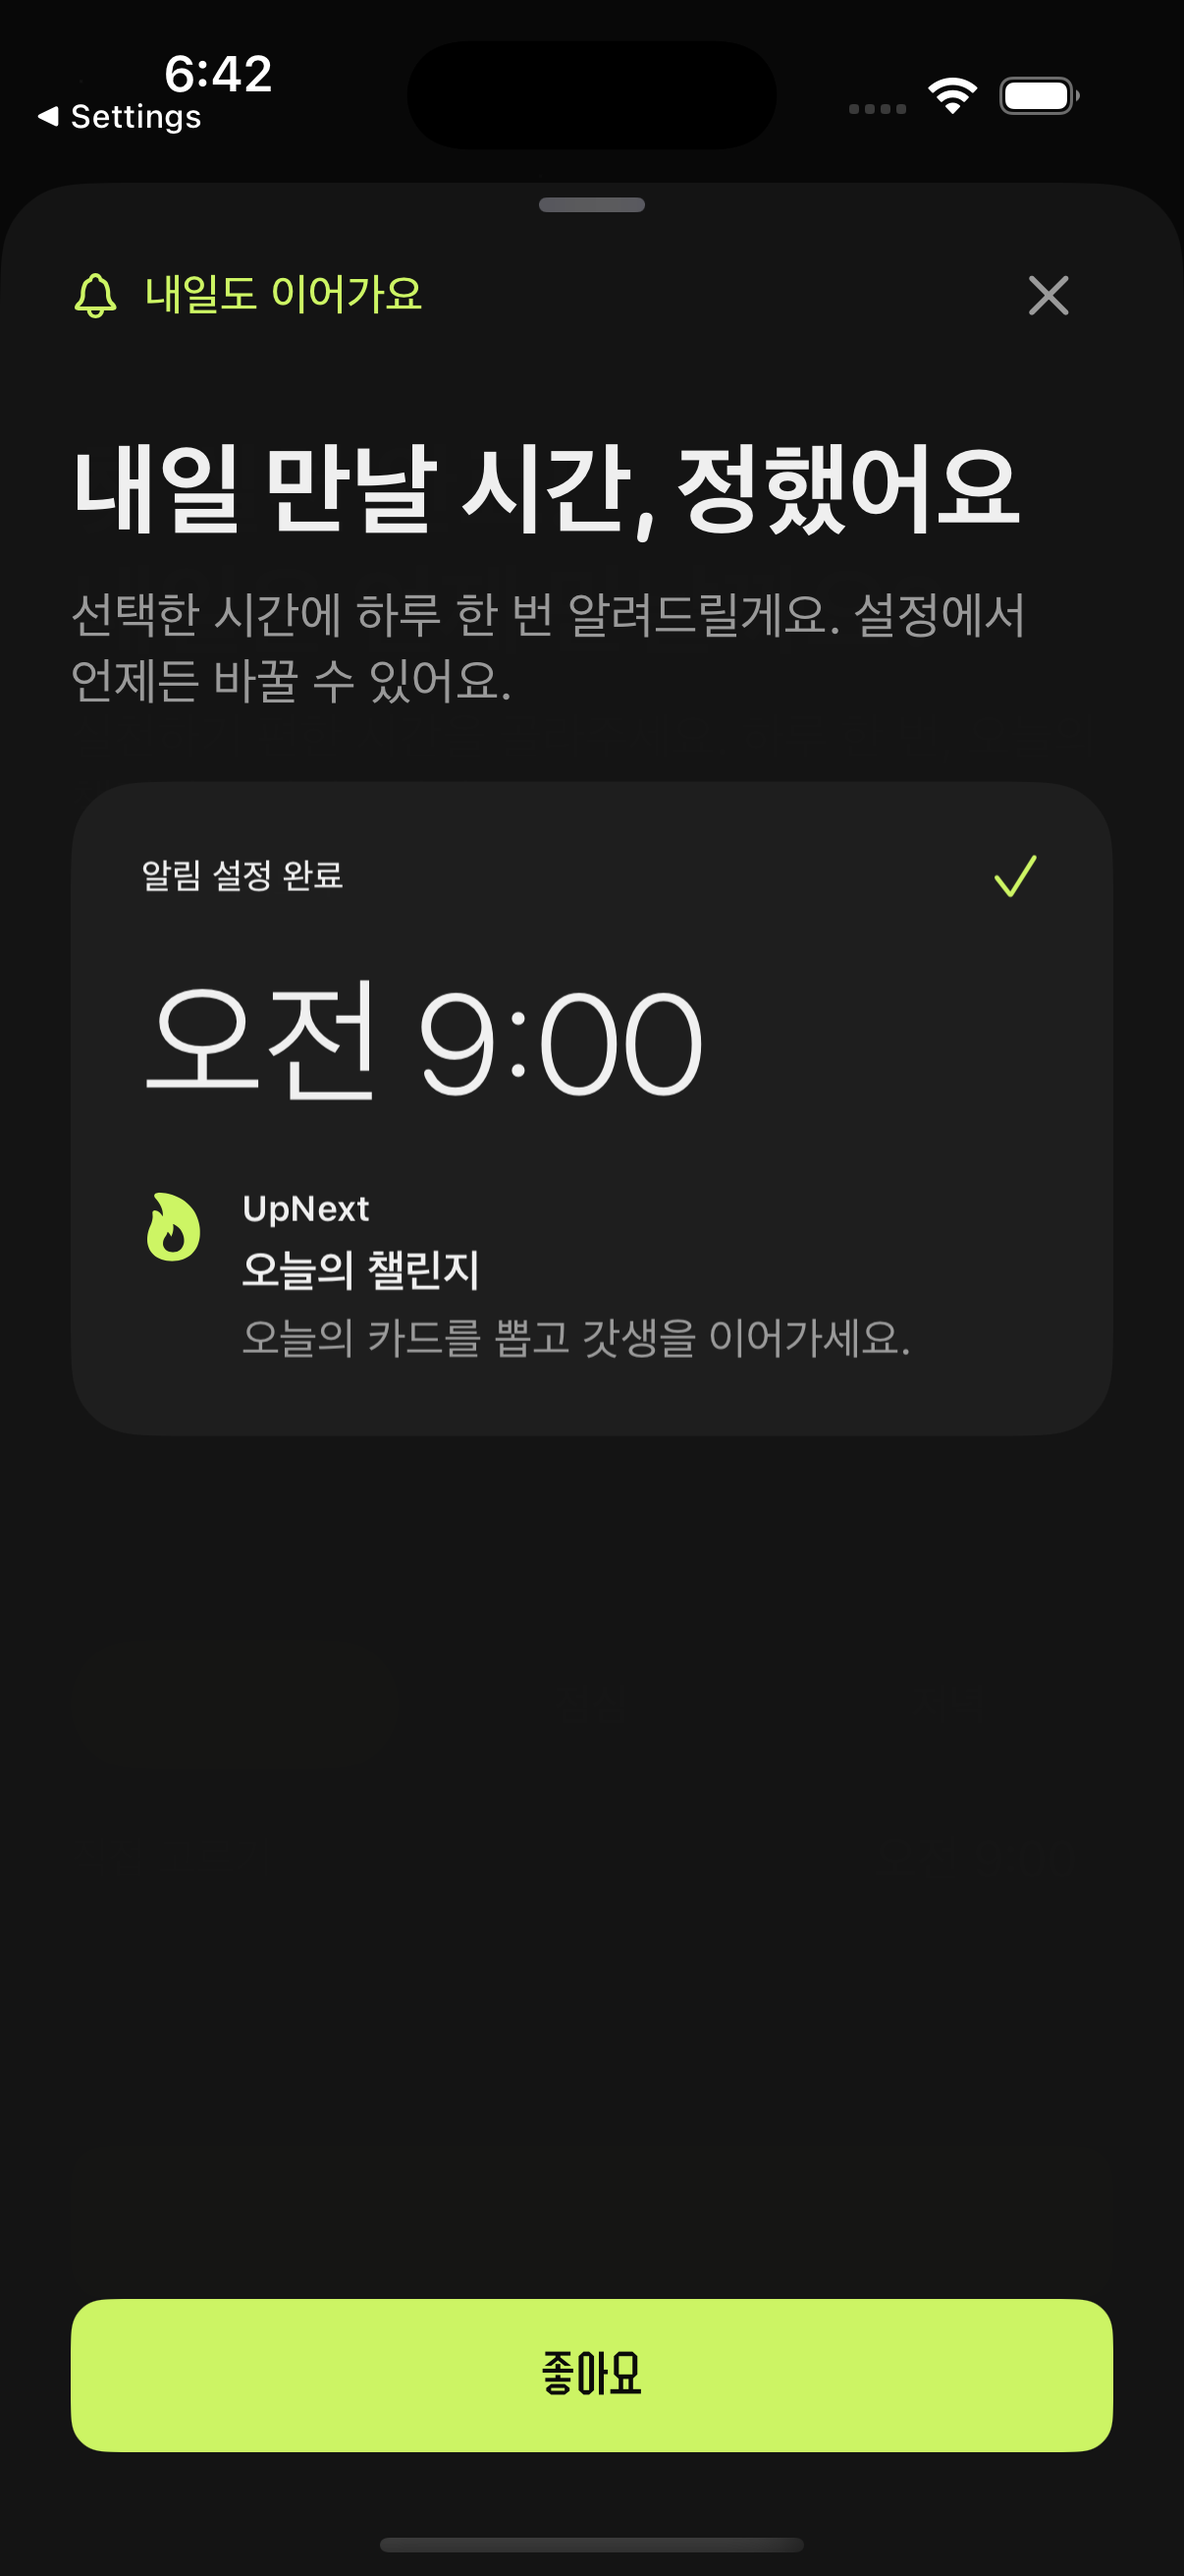
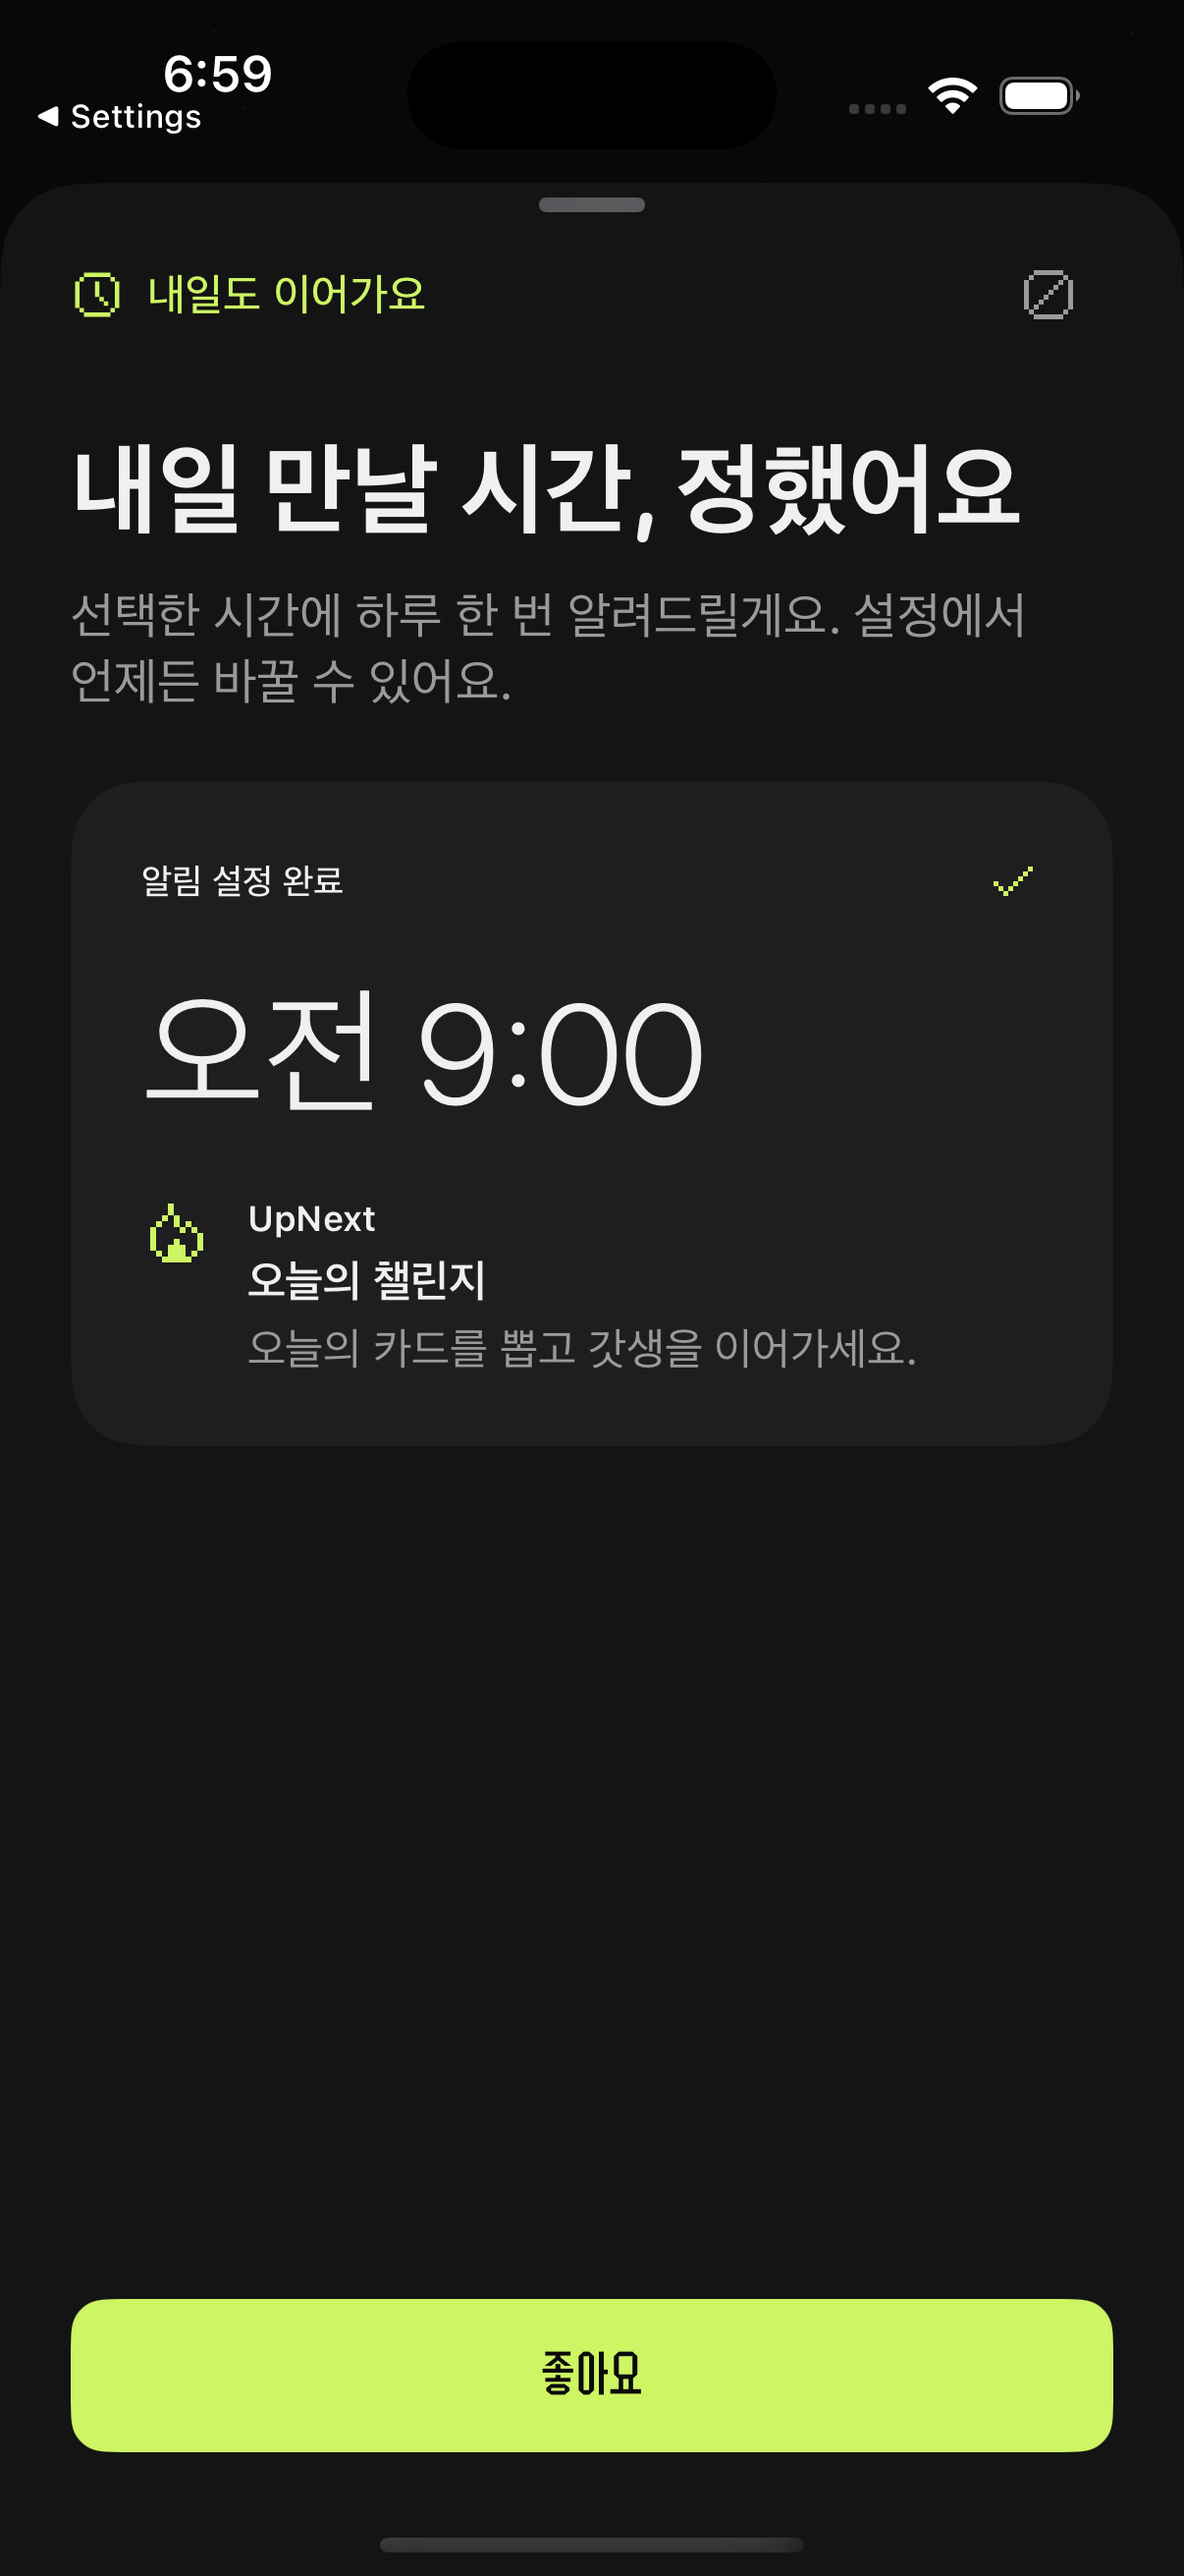
fix: align setup guides and audio validation with app design

diff --git a/upnext-ios/UpNext/UpNext/WidgetSetupPractice.swift b/upnext-ios/UpNext/UpNext/WidgetSetupPractice.swift
@@ -20,7 +20,7 @@ struct WidgetSetupPractice: View {
                 Text(copy("여기서 연습해보세요"))
                     .font(.caption.weight(.medium)).foregroundStyle(Color.textSecondary)
                 Spacer()
-                Image(systemName: "hand.draw").foregroundStyle(Color.accentPrimary)
+                PixelIcon(.hand, size: 20, color: .accentPrimary)
             }
             if step == 2 { gallery } else { home }
         }
@@ -53,7 +53,10 @@ struct WidgetSetupPractice: View {
             .overlay(alignment: .topLeading) {
                 if menuOpen {
                     Button(action: onAdvance) {
-                        Label(copy("위젯 추가"), systemImage: "plus")
+                        HStack(spacing: 8) {
+                            PixelIcon(.plus, size: 18)
+                            Text(copy("위젯 추가"))
+                        }
                             .font(.subheadline.weight(.semibold))
                             .padding(.horizontal, 18).frame(minHeight: 52)
                             .background(Color.bgHover, in: RoundedRectangle(cornerRadius: 12))
@@ -86,8 +89,7 @@ struct WidgetSetupPractice: View {
                             .stroke(Color.accentPrimary, style: StrokeStyle(lineWidth: 3, lineCap: .round))
                             .frame(width: 68, height: 68).rotationEffect(.degrees(-90))
                             .animation(holding ? .linear(duration: 0.65) : Anim.easeOut(0.15), value: holding)
-                        Image(systemName: "hand.point.up.left")
-                            .font(.title).foregroundStyle(Color.accentPrimary)
+                        PixelIcon(.hand, size: 30, color: .accentPrimary)
                             .scaleEffect(reduceMotion || !holding ? 1 : 0.94)
                     }
                     Text(copy("빈 곳을 길게 눌러보세요"))
@@ -104,8 +106,8 @@ struct WidgetSetupPractice: View {
                 .accessibilityIdentifier("widgetPracticeHold")
             } else {
                 VStack(spacing: 10) {
-                    Image(systemName: "arrow.up.left").font(.largeTitle)
-                        .foregroundStyle(Color.accentPrimary)
+                    PixelIcon(.arrowUp, size: 34, color: .accentPrimary)
+                        .rotationEffect(.degrees(-45))
                     Text(copy("편집 → 위젯 추가"))
                         .font(.subheadline).foregroundStyle(Color.textSecondary)
                 }
@@ -118,7 +120,7 @@ struct WidgetSetupPractice: View {
     private var gallery: some View {
         VStack(spacing: 18) {
             HStack {
-                Image(systemName: added ? "checkmark" : "magnifyingglass")
+                PixelIcon(added ? .check : .search, size: 18, color: added ? .accentPrimary : .textPrimary)
                 Text(added ? copy("연습 완료") : "UpNext")
                 Spacer()
             }
@@ -146,7 +148,10 @@ struct WidgetSetupPractice: View {
                     Haptics.play(.success)
                     withAnimation(motion) { added = true }
                 } label: {
-                    Label(copy("위젯 추가 연습"), systemImage: "plus")
+                    HStack(spacing: 8) {
+                        PixelIcon(.plus, size: 20, color: .bgPrimary)
+                        Text(copy("위젯 추가 연습"))
+                    }
                 }
                 .buttonStyle(.un(.primary))
                 .accessibilityIdentifier("widgetPracticePlace")
@@ -192,7 +197,7 @@ struct RetentionWidgetPreview: View {
             HStack {
                 Text("UpNext").font(.caption.weight(.bold))
                 Spacer(minLength: 8)
-                Image(systemName: "flame.fill").foregroundStyle(Color.accentPrimary)
+                PixelIcon(.flame, size: 18, color: .accentPrimary)
             }
             Text(taskTitle)
                 .font(.headline).fixedSize(horizontal: false, vertical: true)
@@ -203,7 +208,7 @@ struct RetentionWidgetPreview: View {
                 }
                 Text("\(completion.done)/\(completion.total)").font(.caption).monospacedDigit()
                 Spacer()
-                Image(systemName: "arrow.up.right").foregroundStyle(Color.accentPrimary)
+                PixelIcon(.arrowUp, size: 18, color: .accentPrimary).rotationEffect(.degrees(45))
             }
             .accessibilityHidden(true)
         }

diff --git a/upnext-ios/UpNext/UpNext/RetentionSetupView.swift b/upnext-ios/UpNext/UpNext/RetentionSetupView.swift
@@ -24,13 +24,15 @@ struct RetentionSetupView: View {
         ScrollView {
             VStack(alignment: .leading, spacing: 24) {
                 HStack {
-                    Label(copy(kind == .notifications ? "내일도 이어가요" : "눈에 보이면 더 쉬워요"),
-                          systemImage: kind == .notifications ? "bell" : "rectangle.grid.2x2")
+                    HStack(spacing: 8) {
+                        PixelIcon(kind == .notifications ? .clock : .grid3x3, size: 18, color: .accentPrimary)
+                        Text(copy(kind == .notifications ? "내일도 이어가요" : "눈에 보이면 더 쉬워요"))
+                    }
                         .font(.subheadline.weight(.medium))
                         .foregroundStyle(Color.accentPrimary)
                     Spacer()
                     Button { setup.dismiss() } label: {
-                        Image(systemName: "xmark").font(.body.weight(.medium))
+                        PixelIcon(.cancel, size: 20, color: .textSecondary)
                             .frame(width: 44, height: 44)
                     }
                     .foregroundStyle(Color.textSecondary)
@@ -146,8 +148,7 @@ struct RetentionSetupView: View {
                 Text(copy(succeeded ? "알림 설정 완료" : "알림 미리보기"))
                     .font(.caption.weight(.medium))
                 Spacer()
-                Image(systemName: succeeded ? "checkmark" : "bell.badge")
-                    .foregroundStyle(Color.accentPrimary)
+                PixelIcon(succeeded ? .check : .clock, size: 20, color: .accentPrimary)
             }
             Text(time, style: .time)
                 .font(.system(size: 48, weight: .light, design: .rounded))
@@ -155,8 +156,7 @@ struct RetentionSetupView: View {
                 .contentTransition(reduceMotion ? .opacity : .numericText())
                 .accessibilityIdentifier("reminderPreviewTime")
             HStack(alignment: .top, spacing: 12) {
-                Image(systemName: "flame.fill")
-                    .font(.title2).foregroundStyle(Color.accentPrimary)
+                PixelIcon(.flame, size: 24, color: .accentPrimary)
                 VStack(alignment: .leading, spacing: 5) {
                     Text("UpNext").font(.caption.weight(.semibold))
                     Text(AppConfig.loc("오늘의 챌린지")).font(.subheadline.weight(.semibold))
@@ -213,8 +213,12 @@ struct RetentionSetupView: View {
             RetentionWidgetPreview()
                 .padding(24)
                 .background(Color.accentPrimary.opacity(0.08), in: RoundedRectangle(cornerRadius: 24))
-            Label(copy("위젯 추가를 확인했어요"), systemImage: "checkmark.circle.fill")
+            HStack(spacing: 8) {
+                PixelIcon(.check, size: 20, color: .accentPrimary)
+                Text(copy("위젯 추가를 확인했어요"))
+            }
                 .foregroundStyle(Color.accentPrimary)
+                .accessibilityElement(children: .combine)
                 .accessibilityIdentifier("widgetInstalledConfirmation")
         } else if widgetStep < 3 {
             WidgetSetupPractice(step: widgetStep, onAdvance: advanceWidget)

diff --git a/upnext-ios/UpNext/UpNext/SettingsView.swift b/upnext-ios/UpNext/UpNext/SettingsView.swift
@@ -173,7 +173,7 @@ struct SettingsView: View {
                     HStack {
                         Text(RetentionSetupCopy.text("알림 설정 가이드"))
                         Spacer()
-                        Image(systemName: "chevron.right")
+                        PixelIcon(.chevronRight, size: 20, color: .textSecondary)
                     }.padding(16).frame(minHeight: 48)
                 }
                 .foregroundStyle(Color.textPrimary)
@@ -186,7 +186,7 @@ struct SettingsView: View {
                         HStack {
                             Text(RetentionSetupCopy.text("홈 화면 위젯 가이드"))
                             Spacer()
-                            Image(systemName: "chevron.right")
+                            PixelIcon(.chevronRight, size: 20, color: .textSecondary)
                         }.padding(16).frame(minHeight: 48)
                     }
                     .foregroundStyle(Color.textPrimary)

diff --git a/scripts/fidelity/audio-audit.py b/scripts/fidelity/audio-audit.py
@@ -1,0 +1,38 @@
+#!/usr/bin/env python3
+"""Verify the shipped audio catalog without requiring an audio device or ffmpeg."""
+import json
+import re
+import wave
+from pathlib import Path
+
+ROOT = Path(__file__).resolve().parents[2]
+WEB = ROOT / "public/audio"
+IOS = ROOT / "upnext-ios/UpNext/UpNext"
+manifest = json.loads((WEB / "manifest.json").read_text())
+assert manifest == json.loads((IOS / "Audio/manifest.json").read_text()), "Audio manifests differ"
+catalog = set(re.findall(r"^    case (\w+)$", (IOS / "SoundName.swift").read_text(), re.M))
+assert catalog == set(manifest["sfx"]), "Swift sound catalog differs from the manifest"
+required_sounds = {
+    "chargeUp", "ambientFloat", "pulseWave", "collect", "fireIgnite", "impactShake",
+    "superIgnite", "meteorWhoosh", "matchPair", "curseTrigger", "rewardChoose",
+    "cameraShutter", "polaroidSlide", "treeGrow",
+}
+assert required_sounds <= catalog, "Restored sound identities were removed"
+assert len(catalog) >= 63, "SFX catalog was reduced"
+assert len(manifest["music"]) >= 10, "Music catalog was reduced"
+for category in ("sfx", "music"):
+    for name, entry in manifest[category].items():
+        filename = entry["file"]
+        web_file, ios_file = WEB / filename, IOS / "Audio" / filename
+        content = web_file.read_bytes()
+        assert len(content) > 44, f"Empty audio: {name}"
+        assert content == ios_file.read_bytes(), f"Web/iOS audio differs: {name}"
+        if category == "sfx":
+            with wave.open(str(web_file), "rb") as audio:
+                assert audio.getnframes() > 0, f"Empty WAV: {name}"
+                assert audio.getframerate() == manifest["sampleRate"], f"WAV sample rate: {name}"
+                assert audio.getsampwidth() == 2, f"WAV must be 16-bit PCM: {name}"
+                samples = audio.readframes(audio.getnframes())
+                assert len(samples) == audio.getnframes() * audio.getnchannels() * 2, f"Truncated WAV: {name}"
+                assert any(samples), f"Silent WAV: {name}"
+print(f"{len(catalog)} SFX and {len(manifest['music'])} music assets verified")

diff --git a/upnext-ios/release-notes-1.3.0.md b/upnext-ios/release-notes-1.3.0.md
@@ -1,4 +1,4 @@
-# 1.3.0 (빌드 30) 릴리스 노트
+# 1.3.0 (빌드 31) 릴리스 노트
 
 App Store Connect 1.3.0 의 "새로운 기능" 원문. 빌드 26 문안에 격자 가방(피드백 23번)과 가방 확장 상점을 더해 다시 썼다. 방지권은 켜고 시도할 때마다 소모되는 계약이므로 빌드 25 의 옛 문안("막는 순간에만 쓰입니다")은 쓰지 않는다.
 
